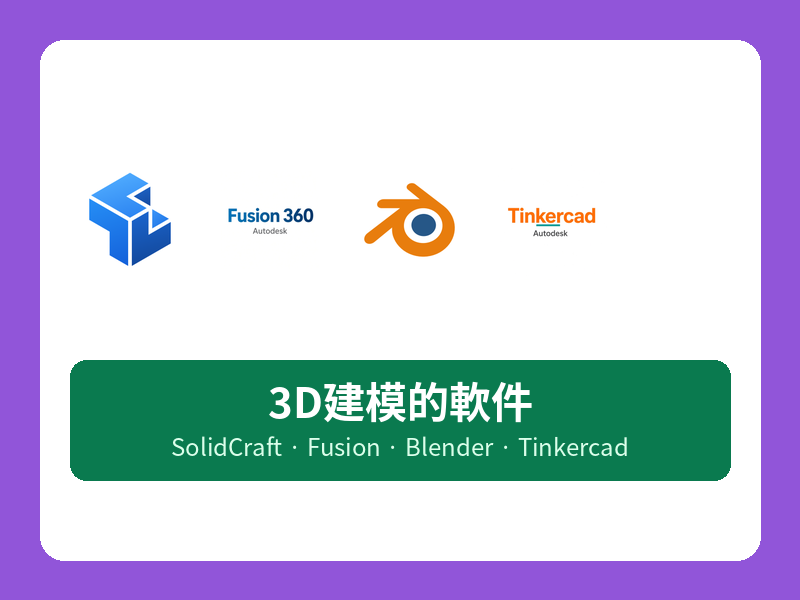
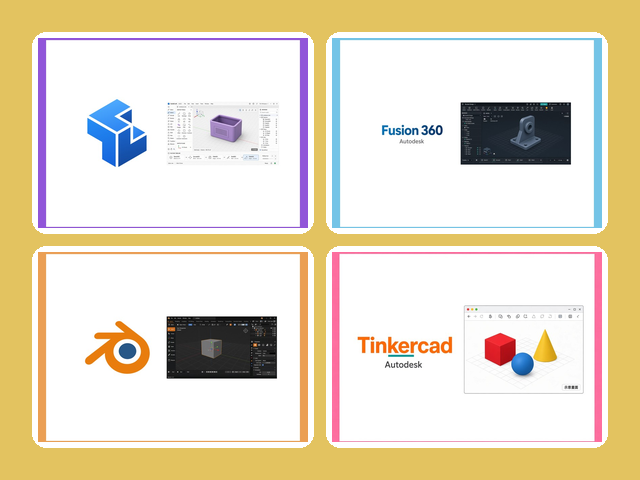
Use the official yellow plate on the 3D software card (#10)
Replace the temporary purple card image and match the tile color to #E3C360.

diff --git a/index.html b/index.html
@@ -7,7 +7,7 @@
   <link rel="preconnect" href="https://fonts.googleapis.com" />
   <link rel="preconnect" href="https://fonts.gstatic.com" crossorigin />
   <link href="https://fonts.googleapis.com/css2?family=Noto+Sans+TC:wght@400;500;700;900&display=swap" rel="stylesheet" />
-  <link rel="stylesheet" href="tokens.css?v=20261025" />
+  <link rel="stylesheet" href="tokens.css?v=20261025a" />
   <style>
     * { box-sizing: border-box; margin: 0; padding: 0; }
     html { scroll-behavior: smooth; }
@@ -438,7 +438,7 @@
       </a>
       <a class="card" href="3d-software/">
         <div class="card-face tile-3dsoftware">
-          <img src="assets/cards/card_3d-software.png?v=20261025" alt="" />
+          <img src="assets/cards/card_3d-software.png?v=20261025a" alt="" />
           <span class="chip">NEW</span>
         </div>
         <div class="card-meta">

diff --git a/tokens.css b/tokens.css
@@ -34,8 +34,8 @@
   --tile-3dsoon: #56AB68;
   /* Designer-chairs plate — same purple as the product candy tile */
   --tile-chairs: #9155D9;
-  /* 3D software hub — purple plate baked into card_3d-software.png */
-  --tile-3dsoftware: #9155D9;
+  /* 3D software hub — yellow plate baked into card_3d-software.png */
+  --tile-3dsoftware: #E3C360;
 
   /* CTA (hero button — coral energy like reference) */
   --cta: #E85A4F;
